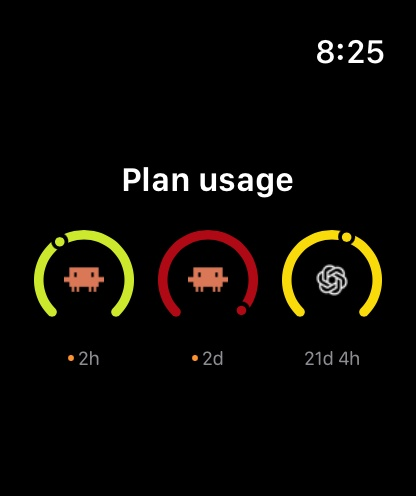
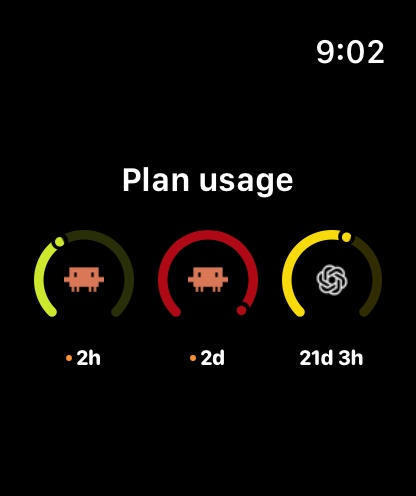
Clarify watch usage arcs and amplify quiet dictation levels

diff --git a/Collie/CollieWatchWidgets/UsageDial.swift b/Collie/CollieWatchWidgets/UsageDial.swift
@@ -7,6 +7,10 @@ struct UsageDial: View {
     var showsPercentage = true
 
     var body: some View {
+        let color = window.map { WatchUsage.usedColor($0.used) } ?? .secondary
+        let fraction = window?.usedFraction ?? 0
+        let end = window == nil ? 0 : min(fraction + 0.02, 1)
+        let remainder = end < 1 ? color.opacity(0.2) : color
         Gauge(value: window?.usedFraction ?? 0) {
             if let period {
                 HStack(spacing: 2) {
@@ -26,6 +30,11 @@ struct UsageDial: View {
             }
         }
         .gaugeStyle(.accessoryCircular)
-        .tint(window.map { WatchUsage.usedColor($0.used) } ?? .secondary.opacity(0.3))
+        .tint(Gradient(stops: [
+            .init(color: color, location: 0),
+            .init(color: color, location: end),
+            .init(color: remainder, location: end),
+            .init(color: remainder, location: 1),
+        ]))
     }
 }

diff --git a/Collie/CollieWatchWidgets/UsageGauges.swift b/Collie/CollieWatchWidgets/UsageGauges.swift
@@ -43,8 +43,8 @@ private struct UsageGauge: View {
                     Text("No data")
                 }
             }
-            .font(.system(size: 10, design: .rounded))
-            .foregroundStyle(.secondary)
+            .font(.system(size: 11, weight: .bold, design: .rounded))
+            .foregroundStyle(.primary)
             .frame(height: 14)
         }
         .frame(width: diameter)

diff --git a/Collie/Sources/Collie/SpeechDictationEngine.swift b/Collie/Sources/Collie/SpeechDictationEngine.swift
@@ -170,7 +170,7 @@ private final class LiveDictation {
         var sum: Float = 0
         for index in 0..<count { sum += samples[index] * samples[index] }
         let decibels = 20 * log10(max((sum / Float(count)).squareRoot(), 1e-6))
-        return min(max((decibels + 50) / 50, 0), 1)
+        return min(max((decibels + 65) / 40, 0), 1)
     }
 }
 

diff --git a/README.md b/README.md
@@ -64,7 +64,7 @@ Floating composers, terminal keys, filters and approval actions use native Liqui
 - **Slash commands**: while a Claude Code prompt on the phone starts with `/`, its command is mirrored into the agent's input box so Claude Code's command menu appears live. ↑ ↓ highlight a command, ⇥ takes it into the phone's prompt, and only Send runs it; ⏎ and ⌃⏎ are off while the command shows.
 - **Jump to bottom**: when Claude Code's fullscreen transcript is scrolled up on the machine, a Jump to bottom button brings it back down. Until then the machine refuses keys and prompts, so a permission prompt scrolled out of view cannot be answered unseen.
 - **Claude Code notices**: the options of a notice above the input box (the "Heads up" tip, its explanation and feedback row, the session rating question, or a plugin that draws its options the same way) show as buttons. A tap sends that one digit, without Enter, only while the screen still shows that option above an empty input box. Chat in main session and Turn off suggestions only fill the input box; nothing is sent until you send it. The tip feedback options send Anthropic a feedback signal about the tip, never its text or the transcript. Follow-ups to a rating are answered on the machine.
-- **Dictation**: the mic button dictates into the prompt field with Apple's on-device speech models, in English (US) or French (Canada). Audio never leaves the phone. A translucent blue waveform fills the glass dictation bar with recent microphone levels, showing speech peaks and pauses while the language and stop controls remain accessible.
+- **Dictation**: the mic button dictates into the prompt field with Apple's on-device speech models, in English (US) or French (Canada). Audio never leaves the phone. A translucent blue waveform fills the glass dictation bar with recent microphone levels, making quieter speech visible and showing pauses while the language and stop controls remain accessible.
 - **Attachments**: up to 10 photos or files per prompt, uploaded over the tailnet and shown as removable thumbnails. The agent receives their paths on the machine; files are deleted after 24 hours.
 - **New task**: start Claude Code, Codex or GitHub Copilot CLI in a new workspace. Each machine can have a base folder (Machines > the machine > Base folder, a full path such as `/Users/you/git`, since `~` is not expanded) inside one of `collied`'s task roots (`[tasks] roots`, the home folder by default). Typing a name then means that folder inside the base, with matching folders offered as you type, and Browse lists the base's folders. Recent folders and absolute paths also work. New folder creates one empty folder (no `git init`) in the base, or in a task root when no base is set, and starts the agent there; it stays if the agent fails to start.
 - **Git worktree tasks**: in New task, choose Git worktree and enter the session checkout inside a task root. Collie lists its worktrees automatically. Create generates a branch name unless you enter one, then places the new checkout under that checkout's `.worktree/` directory. Slashes in a custom branch name become hyphens in the checkout folder name. Open selects an existing checkout from the list. Check the branch and path shown before Start. Collie starts the agent in herdr's returned root pane. An occupied pane is refused. If agent startup fails, the checkout and workspace stay in place and the error identifies them. Archive closes the linked workspace and removes its checkout, including uncommitted changes, then runs `gh poi` to clean up merged branches and worktrees in the repository. For a regular folder, Archive closes only its pane and leaves the folder in place; it runs `gh poi` when the repository is inside a task root. The result reports any skipped or failed cleanup.
@@ -81,7 +81,7 @@ Floating composers, terminal keys, filters and approval actions use native Liqui
 ### Apple Watch
 
 - Pending approvals with the command and a countdown, the agents as in the inbox, and a three-ring usage complication, refreshed about every 15 minutes when watchOS allows it. Outer to inner: Claude 5-hour, Claude weekly, and Codex monthly (resetting on the first of the month). Ring length shows percent used; color shifts smoothly with usage: bright green at 0%, yellow at 60%, orange at 80%, red at 90%, and deep red near 100%. Missing or expired readings show a dim track.
-- The Plan usage widget in the watch Smart Stack shows three native circular gauges for Claude 5-hour, Claude weekly and Codex monthly usage. Each gauge holds the provider logo, with a compact reset countdown below. Window labels and percentages stay in the watch app to leave more room for the gauges. The native marker indicates usage. The rings use the same usage-color scale as the circular complication. It is also available as a rectangular watch-face complication. White ticks on the circular complication rings mark the elapsed share of each usage window. Fill beyond the tick means usage is ahead of an even pace. Countdowns and elapsed markers are scheduled to advance every five minutes from cached data. The phone’s Codex bar now marks the elapsed share of the month, matching Claude’s pace markers. A small orange dot beside the countdown in the rectangular widget marks readings at least 30 minutes old or of unknown age. Unavailable readings use dim tracks and `--`; missing rings are dashed. Tap either watch widget to open a compact list with matching logo gauges, window labels, usage percentages and reset countdowns. Tap a window for its countdown, elapsed percentage and reading age; the list also shows the last phone sync.
+- The Plan usage widget in the watch Smart Stack shows three native circular gauges for Claude 5-hour, Claude weekly and Codex monthly usage. Each gauge holds the provider logo, with a bold reset countdown below. The used arc is bright and the unused remainder is dimmed. Window labels and percentages stay in the watch app to leave more room for the gauges. The native marker indicates usage. The rings use the same usage-color scale as the circular complication. It is also available as a rectangular watch-face complication. White ticks on the circular complication rings mark the elapsed share of each usage window. Fill beyond the tick means usage is ahead of an even pace. Countdowns and elapsed markers are scheduled to advance every five minutes from cached data. The phone’s Codex bar now marks the elapsed share of the month, matching Claude’s pace markers. A small orange dot beside the countdown in the rectangular widget marks readings at least 30 minutes old or of unknown age. Unavailable readings use dim tracks and `--`; missing rings are dashed. Tap either watch widget to open a compact list with matching logo gauges, window labels, usage percentages and reset countdowns. Tap a window for its countdown, elapsed percentage and reading age; the list also shows the last phone sync.
 - Approvals are read-only unless Settings > Apple Watch > Decide from Apple Watch is on; the watch app can then approve, deny or answer a question menu. Decisions are made in the watch app, never from the alert itself.
 - The watch asks the iPhone for pending approvals when it opens, at most once a minute unless an approval alert opened it, and works while the iPhone is locked. The agents are as the iPhone app last saw them.
 

diff --git a/docs/reviews/liquid-glass.md b/docs/reviews/liquid-glass.md
@@ -21,10 +21,10 @@ Issue #207 uses the iOS 26 and watchOS 26 glass APIs directly. The minimum versi
 | Watch home / agents | Already uses system lists and navigation. Agent status remains content. |
 | Watch approval detail | Glass applied to Approve, Deny and question actions. Commands and status remain content. |
 | Watch usage detail | Compact native list with logo gauges, window labels, percentages and reset countdowns. Tapping a window opens its countdown, reading age and elapsed percentage. No glass on content. |
-| Watch complications / Smart Stack | Rectangular widget redesigned with three native `Gauge` controls using `.accessoryCircular`. Provider sits inside and a compact reset countdown sits below. Window labels are omitted to maximize gauge space. Percentages are shown in the app after tapping. Native markers indicate usage; the circular complication retains elapsed-time ticks. Preserve stale and missing-data states. Gauges use `widgetAccentable`; no extra glass layer. |
+| Watch complications / Smart Stack | Rectangular widget redesigned with three native `Gauge` controls using `.accessoryCircular`. Provider sits inside and a bold reset countdown sits below. A value-based tint dims the unused arc while retaining the native marker. Window labels are omitted to maximize gauge space. Percentages are shown in the app after tapping. Native markers indicate usage; the circular complication retains elapsed-time ticks. Preserve stale and missing-data states. Gauges use `widgetAccentable`; no extra glass layer. |
 | Live Activity / Dynamic Island | System-hosted surface. Remove forced black background, white system actions and dark appearance from the Lock Screen activity. Status pills remain content and approval buttons keep the native widget button style. |
 
-Adjacent custom glass controls share `GlassEffectContainer`. Controls inside a glass composer or dictation capsule do not add another glass surface. The blue dictation waveform uses a translucent gradient, becoming solid with Reduce Transparency or Increase Contrast. It fills the available capsule width with recent microphone levels, including repeated levels and silence; history clears when dictation stops or switches language. Agents/Usage uses native interactive page scrolling instead of a gesture that switches only after release. Page transitions triggered by the selector respect Reduce Motion.
+Adjacent custom glass controls share `GlassEffectContainer`. Controls inside a glass composer or dictation capsule do not add another glass surface. The blue dictation waveform uses a translucent gradient, becoming solid with Reduce Transparency or Increase Contrast. It fills the available capsule width with recent microphone levels, including repeated levels and silence, with a more sensitive microphone level scale; history clears when dictation stops or switches language. Agents/Usage uses native interactive page scrolling instead of a gesture that switches only after release. Page transitions triggered by the selector respect Reduce Motion.
 
 Reference: [Apple's Liquid Glass guidance](https://developer.apple.com/documentation/swiftui/applying-liquid-glass-to-custom-views).
 
@@ -38,7 +38,7 @@ Prioritize dark mode while retaining native appearance and accessibility behavio
 - Reviewed the final diff for approval guards, disabled states, composer behavior and widget missing/stale states. Fixed clipped terminal key labels during visual review. Physical watch feedback exposed a widget-only collapse in the geometry-scaled gauges; the updated implementation removes that transform and shares the plain native gauge with usage detail.
 - Simulator fixtures covered light, dark, Increase Contrast, accessibility text sizes and actual Reduce Transparency. Verified native paging at a partial offset with both pages visible and after settling on Usage. Approval actions stack at accessibility sizes. Existing agent header/key clipping at extreme text sizes remains outside this change.
 - Dictation fixtures cover dark/light appearance, a narrow bar and accessibility text with Increase Contrast. Session tests verify speech and silence history, its size bound, and clearing on stop, cancellation and language changes. Live microphone validation on the phone is pending.
-- Native watch simulator previews and rectangular fixtures cover reset countdowns and missing data. Standalone previews did not reproduce the physical widget layout failure. Physical feedback confirmed the collapse was resolved. The later simplified widget and compact usage list await physical acceptance.
+- Native watch simulator previews and rectangular fixtures cover reset countdowns and missing data. Standalone previews did not reproduce the physical widget layout failure. Physical feedback confirmed the collapse was resolved. Physical feedback confirmed the compact usage list looks good. The widget now dims its unused arc and uses bold countdowns; these final refinements await physical acceptance.
 
 These screenshots use deterministic fixtures rendered with production views. The watch simulator image uses a temporary host app with the production gauge view, rather than a configured watch face.
 
@@ -56,4 +56,4 @@ These screenshots use deterministic fixtures rendered with production views. The
 
 ![Full-width dictation waveform in the glass capsule](images/dictation-waveform.jpg)
 
-The latest signed build was installed and launched on the physical iPhone. The signed Mac companion was updated and restarted; status and doctor checks passed. Its Codex-only prompt reflow fix joins continuations at the source terminal width while preserving short explicit newlines and structured rows. The watch update is embedded in the iPhone app; transfer to the physical watch and user acceptance are pending. Remaining manual checks: the iOS 27 glass setting extremes, Live Activity clear/tinted Lock Screen styles, actual watch face accenting, and physical watch readability. Simulator fixtures do not validate those system-hosted presentations.
+The latest signed build was installed and launched on the physical iPhone. The signed Mac companion was updated and restarted; status and doctor checks passed. Its Codex-only prompt reflow fix joins continuations at the source terminal width while preserving short explicit newlines and structured rows. Physical photos confirmed the watch update transferred and the Plan Usage layout was accepted. Final widget and microphone sensitivity refinements await physical acceptance. Remaining manual checks: the iOS 27 glass setting extremes, Live Activity clear/tinted Lock Screen styles, actual watch face accenting, and physical watch readability. Simulator fixtures do not validate those system-hosted presentations.
